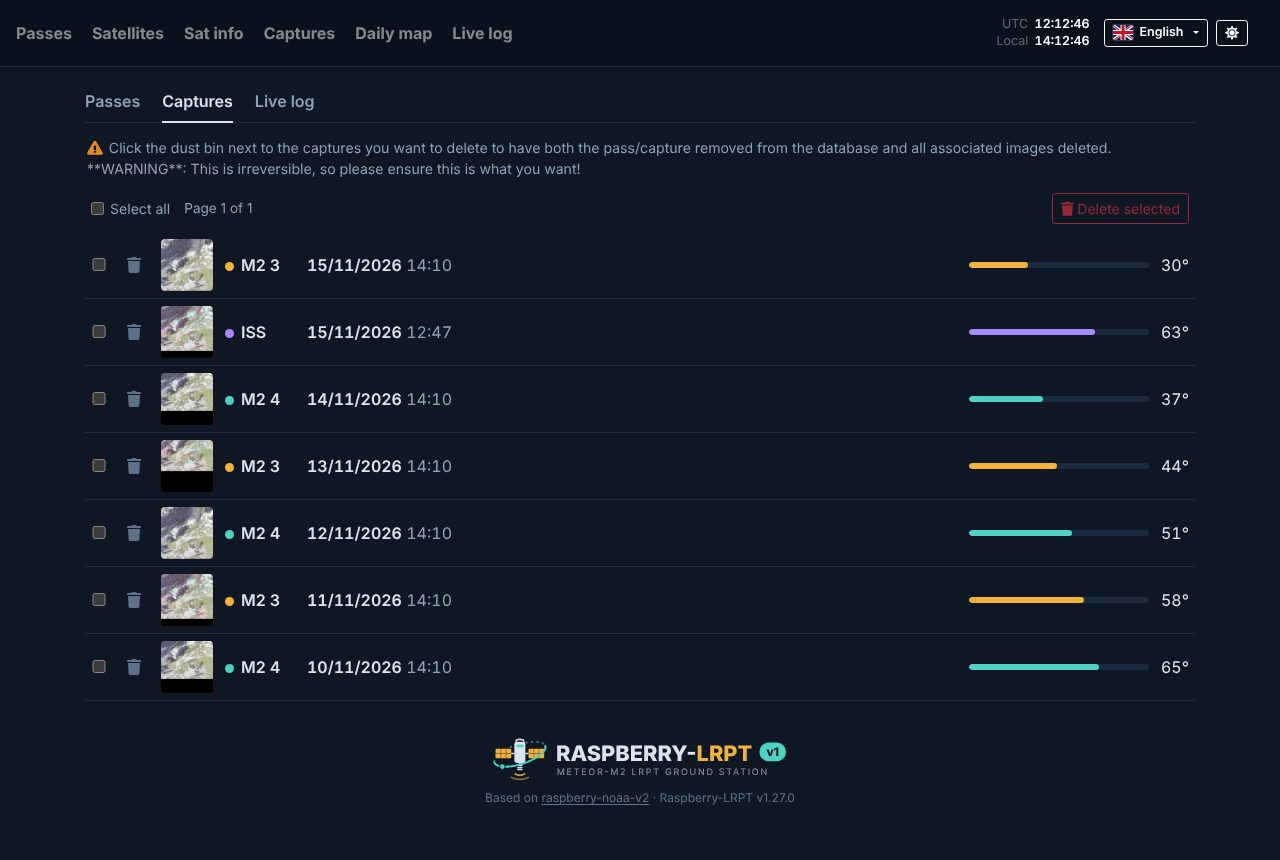
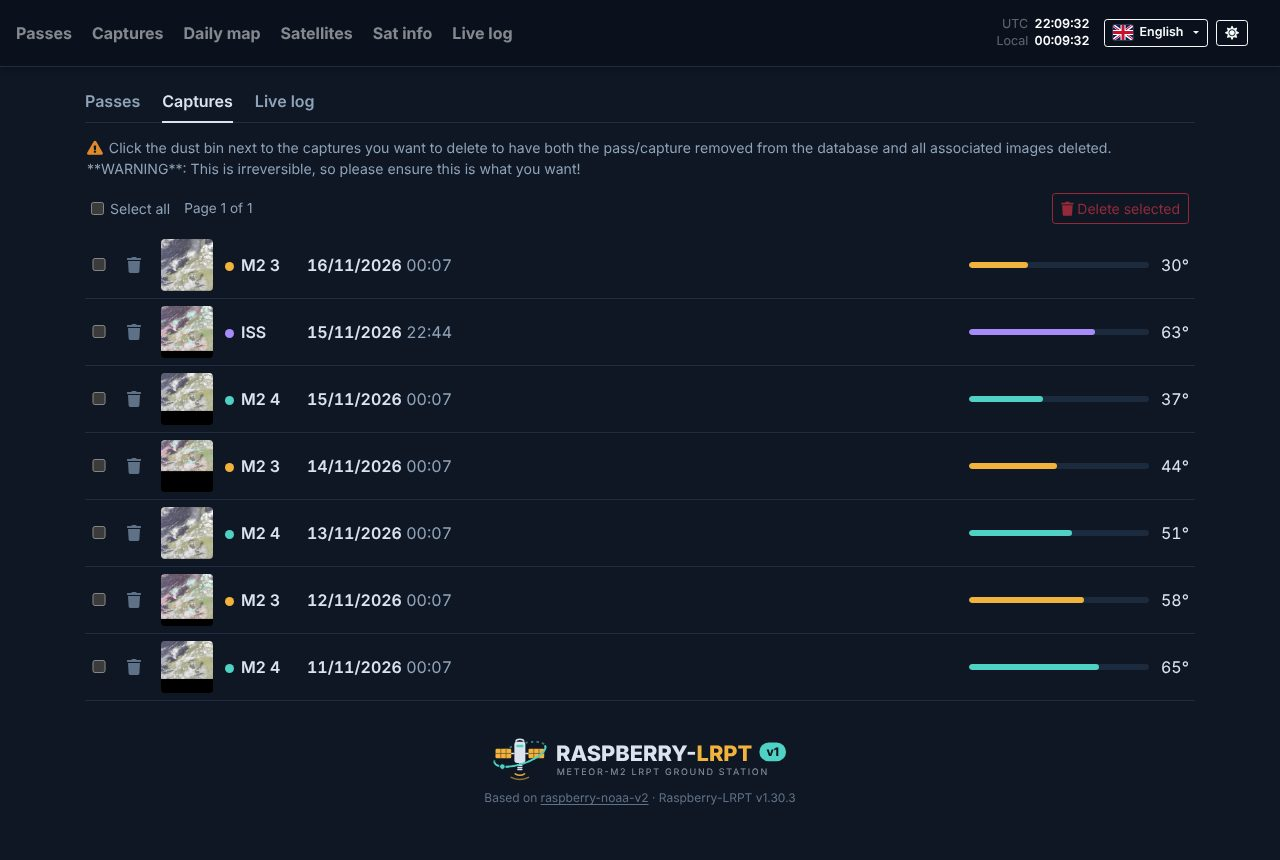
Raspberry-LRPT v1.30.3

diff --git a/webpanel/App/Views/base.html b/webpanel/App/Views/base.html
@@ -42,6 +42,15 @@
           <li class="nav-item {% if page == 'passes' %} active {% endif %}">
             <a class="nav-link" href="/passes">{{ lang['passes'] }}</a>
           </li>
+          {# order (v1.30.3): what's next, the results, the satellites, then the station log #}
+          <li class="nav-item {% if page == 'captures' or page == 'capture'  %} active {% endif %}">
+            <a class="nav-link" href="/captures?page_no=1">{{ lang['captures'] }}</a>
+          </li>
+          {% if constant('Config\\Config::ENABLE_DAILY_MAP') is defined and constant('Config\\Config::ENABLE_DAILY_MAP') == 'true' %}
+          <li class="nav-item {% if page == 'daily' %} active {% endif %}">
+            <a class="nav-link" href="/daily"><span class="nav-long">{{ lang['daily_map']|default('Daily map') }}</span><span class="nav-short">{{ lang['daily_map_short']|default('Map') }}</span></a>
+          </li>
+          {% endif %}
           {% if constant('Config\\Config::ENABLE_EXPERIMENTAL_FEATURES') is defined
               and constant('Config\\Config::ENABLE_EXPERIMENTAL_FEATURES') == 'true' %}
           <li class="nav-item {% if page == 'satellite' %} active {% endif %}">
@@ -51,14 +60,6 @@
           <li class="nav-item {% if page == 'meteor' %} active {% endif %}">
             <a class="nav-link" href="/meteor"><span class="nav-long">{{ lang['nav_meteor']|default('Sat info') }}</span><span class="nav-short">{{ lang['nav_meteor_short']|default('Info') }}</span></a>
           </li>
-          <li class="nav-item {% if page == 'captures' or page == 'capture'  %} active {% endif %}">
-            <a class="nav-link" href="/captures?page_no=1">{{ lang['captures'] }}</a>
-          </li>
-          {% if constant('Config\\Config::ENABLE_DAILY_MAP') is defined and constant('Config\\Config::ENABLE_DAILY_MAP') == 'true' %}
-          <li class="nav-item {% if page == 'daily' %} active {% endif %}">
-            <a class="nav-link" href="/daily"><span class="nav-long">{{ lang['daily_map']|default('Daily map') }}</span><span class="nav-short">{{ lang['daily_map_short']|default('Map') }}</span></a>
-          </li>
-          {% endif %}
           <li class="nav-item {% if page == 'log' %} active {% endif %}">
             <a class="nav-link" href="/log"><span class="nav-long">{{ lang['live_log']|default('Live log') }}</span><span class="nav-short">{{ lang['live_log_short']|default('Log') }}</span></a>
           </li>

diff --git a/CHANGELOG.md b/CHANGELOG.md
@@ -1,5 +1,12 @@
 # Changelog
 
+## Raspberry-LRPT v1.30.3 (2026-11-17)
+
+- **New top menu order:** Passes · Captures · Daily map · Satellites · Sat info · Live log. What
+  comes next first, then the station's pictures, then the satellites, and the station log last
+  (Captures and Daily map used to come after Satellites and Sat info). On phones the short labels
+  follow the same order: Passes · Captures · Map · Sats · Info · Log.
+
 ## Raspberry-LRPT v1.30.2 (2026-11-16)
 
 - **The checks after a first install no longer report hundreds of false failures.** On a new
